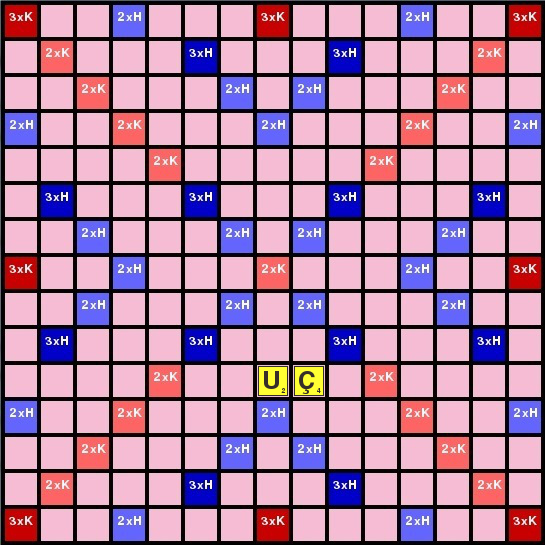
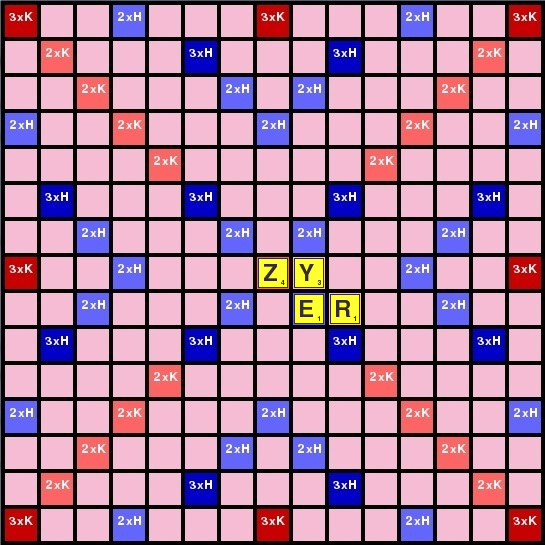
Game Rules:)

Changed region(s): [[0.4679, 0.4679, 0.6862, 0.5927], [0.4679, 0.655, 0.5927, 0.7486]]

diff --git a/scrabble.py b/scrabble.py
@@ -1,6 +1,6 @@
 import pygame,sys
 from pygame.locals import *
-import board, bag, menu, human, tile, player
+import board,bag,menu,human,tile,player
 
 
 #Run the game
@@ -19,11 +19,11 @@ def main():
     global asurf
     asurf = pygame.image.load('Board.jpg') 
     playedTiles = []
-    isFirstMove = True
-    MIDDLE_SQUARE = (257, 257)
 # ##################### All positions that any tile can be at and their status of occupy, both board and tray 
     
     squares = {}
+    isFirstMove = True
+    MIDDLE_SQUARE = (257, 257)    
     
     for i in range (board.Board.GRID_SIZE):
 	for j in range (board.Board.GRID_SIZE):
@@ -53,31 +53,6 @@ def main():
 	    if event.type == pygame.QUIT: #if user click close button
 		pygame.quit()#finish pygame
 		sys.exit()#close window
-		
-	    if event.type == MOUSEBUTTONDOWN:
-		if menu.playButton.pressed(pygame.mouse.get_pos()):
-		    print "Play pressed!"
-		    
-		    if isFirstMove and squares[MIDDLE_SQUARE] == 0:
-			 print "First move must be done to middle of the board"
-			 
-		    else:
-			if isFirstMove:
-			    isFirstMove = False
-			# #################save image when it placed#########
-			players[active].drawTray(SCREEN)
-			for Target in playedTiles:
-			    players[active].tray.remove(Target)		    
-			playedTiles = []
-			rect = pygame.Rect(0, 0, 545, 545)
-			sub = SCREEN.subsurface(rect)
-			pygame.image.save(sub, "Board.png")
-			asurf = pygame.image.load('Board.png')
-			#  ##############################################			    
-		if menu.changeButton.pressed(pygame.mouse.get_pos()):
-		    print "Shuffle pressed!"
-		if menu.backButton.pressed(pygame.mouse.get_pos()):
-		    print "Back pressed!"
 		    
 	    if event.type == pygame.MOUSEBUTTONDOWN:
 		MousePressed = True 
@@ -88,12 +63,96 @@ def main():
 		MouseDown = False	 
 		
 	    if MousePressed == True:
+		if menu.playButton.pressed(pygame.mouse.get_pos()):
+		    print "Play pressed!"
+		    # important !!: tiles must be together
+
+		    # take the list of x and y coordinates of the palyed tiles
+		    xArr = []
+		    yArr = []
+		    for til in playedTiles:
+			xArr.append(til.coordinate[0])
+			yArr.append(til.coordinate[1])
+		    
+		    # find the min and max value for x and y coordinate
+		    minX = min(xArr)
+		    maxX = max(xArr)	
+		    minY = min(yArr)
+		    maxY = max(yArr)
+
+		    isAccepted = True # accepted move or not?
+		    isInPlayArea = True #played tiles are in play area or not
+		    
+		    #range(playedTiles[0].coordinate[0],playedTiles[-1].coordinate[0],36):
+		    # if in the same row all, there will be no gap between the first and last tile
+		    if minY == maxY: # if all played tiles in the same row
+		        print "c 44"
+		        for xCoor in range(minX,maxX,36):
+			    if squares[(xCoor,playedTiles[0].coordinate[1])] == 0:
+			       isAccepted = False
+			       break
+		    elif minX == maxX:# if all played tiles in the same column
+			print "c 55"
+			# if in the same column all, there will be no gap between the first and last tile
+			for yCoor in range(minY,maxY,36):
+			    if squares[(playedTiles[0].coordinate[0],yCoor)] == 0:
+				isAccepted = False
+				break
+		    #played tiles must be same row or same column otherwise not will be accepted
+		    else:
+			print "c 66"
+			isAccepted = False
+		    
+		    # CONTROL for the played tiles are in PLAY AREA or not!!
+                    if isAccepted:
+			print "c 11"
+			if len(playedTiles) == 1:
+			    if squares[(playedTiles[0].coordinate[0]+36,playedTiles[0].coordinate[1])] == 0 and squares[(playedTiles[0].coordinate[0]-36,playedTiles[0].coordinate[1])] == 0 and squares[(playedTiles[0].coordinate[0],playedTiles[0].coordinate[1]+36)] == 0 and squares[(playedTiles[0].coordinate[0],playedTiles[0].coordinate[1]-36)] == 0 and not isFirstMove:
+				isInPlayArea = False
+			else:
+			    for i in range(0, len(playedTiles)-1):
+				print "c aaa"
+				if (squares[(playedTiles[i].coordinate[0]+36,playedTiles[i].coordinate[1])] == 1 and playedTiles[i].coordinate[0]+36 not in xArr) or (squares[(playedTiles[i].coordinate[0]-36,playedTiles[i].coordinate[1])] == 1 and playedTiles[i].coordinate[0]-36 not in xArr) or (squares[(playedTiles[i].coordinate[0],playedTiles[i].coordinate[1]+36)] == 1 and playedTiles[i].coordinate[1]+36 not in yArr) or (squares[(playedTiles[i].coordinate[0],playedTiles[i].coordinate[1]-36)] == 1 and playedTiles[i].coordinate[1]-36 not in yArr):
+				    isInPlayArea = True
+				    print "c 22"
+				    break
+				else:
+				    print "c 33"
+				    isInPlayArea = False
+						  
+		      
+		    if isFirstMove and squares[MIDDLE_SQUARE] == 0:
+			print "First move must be done to middle of the board"
+			
+                    elif not isAccepted:
+			print "There will be no gap between tiles"
+			
+		    elif not isInPlayArea and not isFirstMove:
+			print "Please put your tiles to played area." 
+			
+		    else:
+			if isFirstMove:
+			    isFirstMove = False		    
+			# #################save image when the tiles are played#########
+			players[active].drawTray(SCREEN)
+			for Tar in playedTiles:
+			    players[active].tray.remove(Tar)		    
+			playedTiles = []
+			rect = pygame.Rect(0, 0, 545, 545)
+			sub = SCREEN.subsurface(rect)
+			pygame.image.save(sub, "Board.png")
+			asurf = pygame.image.load('Board.png')
+			#  ##############################################			    
+		if menu.changeButton.pressed(pygame.mouse.get_pos()):
+		    print "Shuffle pressed!"
+		if menu.backButton.pressed(pygame.mouse.get_pos()):
+		    print "Back pressed!"		
 		for item in players[active].tray: # search all items
 		    if (pos[0] >= (item.coordinate[0]) and # ######## Changed
 		        pos[0] <= (item.coordinate[0] + item.SQUARE_SIZE) and 
 		        pos[1] >= (item.coordinate[1]) and # ######## Changed
 		        pos[1] <= (item.coordinate[1] + item.SQUARE_SIZE) ): # inside the bounding box
-			Target=item # "pick up" item
+			Target = item # "pick up" item
 			# ####   NEW
 			squares[Target.coordinate] = 0 # Update the position as empty
 			# ####   NEW
@@ -106,18 +165,16 @@ def main():
 			# ####################################################
 			break
 
-
-
 	    if MouseDown and Target is not None: # if we are dragging something
 		Target.coordinate = (pos[0] - tile.Tile.SQUARE_SIZE/2, pos[1] - tile.Tile.SQUARE_SIZE/2) # move the target with us ############Holds the tile from the middle
-		
-		slideTile = 4 # if a tile is dropped on another tile, slide the tile to the position which was closer
 	    
 	    if MouseReleased and Target is not None:
+		print "Target old post:",Target.oldPos
+		sys.stdout.flush()
 		#  fit the tile in the positions
 		if (Target.coordinate[0] < board.Board.GRID_SIZE * (board.Board.SQUARE_SIZE + board.Board.SQUARE_BORDER) - board.Board.SQUARE_SIZE/2 + 1 and Target.coordinate[1] < board.Board.GRID_SIZE * (board.Board.SQUARE_SIZE + board.Board.SQUARE_BORDER) - board.Board.SQUARE_SIZE/2 + 1 and Target.coordinate[0] > board.Board.SQUARE_BORDER + 1 - board.Board.SQUARE_SIZE/2 and Target.coordinate[1] > board.Board.SQUARE_BORDER + 1 - board.Board.SQUARE_SIZE/2) :
 		    i = 5
-		    a = Target.coordinate
+		    a = Target.coordinate[:]
 		    while i <= Target.coordinate[0] + 16 :
 			i = i + 36
 			
@@ -138,14 +195,14 @@ def main():
 		elif (Target.coordinate[0] + 16 > human.Human.TRAY_LEFT and Target.coordinate[1] + 16 > human.Human.TRAY_TOP and Target.coordinate[0] + 16 < human.Human.TRAY_LEFT + (tile.Tile.SQUARE_SIZE + tile.Tile.SQUARE_BORDER)*8 and Target.coordinate[1] + 16 < human.Human.TRAY_TOP + tile.Tile.SQUARE_SIZE + tile.Tile.SQUARE_BORDER*2):
 		    onTray = True
 		    i = human.Human.TRAY_FIRSTLEFT
-		    a = Target.coordinate
+		    a = Target.coordinate[:]
 		    while i <= Target.coordinate[0] + 16 :
 			i = i + 36		    
 			
 		    Target.coordinate = (i - 36, human.Human.TRAY_FIRSTTOP)
-		    # ###############will remove from tray when played######
-		    if(Target not in playedTiles):
-			playedTiles.append(Target)
+		    # ###############will remove add back to tray when played######
+		    if(Target in playedTiles):
+			playedTiles.remove(Target)
 		    # ######################################################		    
 
 		    
@@ -207,20 +264,14 @@ def main():
 			    #if Target.oldPos[0] <= Target.coordinate[0]
 			    
 		except KeyError:
-		    Target.coordinate = Target.oldPos # if tile slid out of board bring it back		    
-		    
-		    # ###############will remove from tray when played######
-		    if(Target not in playedTiles):
-			playedTiles.append(Target)
-		    # ######################################################		    
+		    Target.coordinate = Target.oldPos # if tile slid out of board bring it back	
 			
 	    # slide the tile if it is dropped on another tile
 			    
 		squares[Target.coordinate] = 1
-		print Target.coordinate
+		print "Target coordinate:",Target.coordinate
 
 		Target = None # Drop item, if we have any
-		
 				
 	    MousePressed = False # Reset these to False
 	    MouseReleased = False # Ditto
